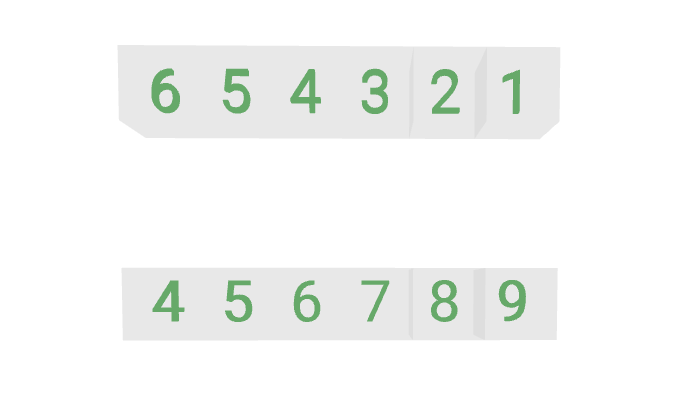
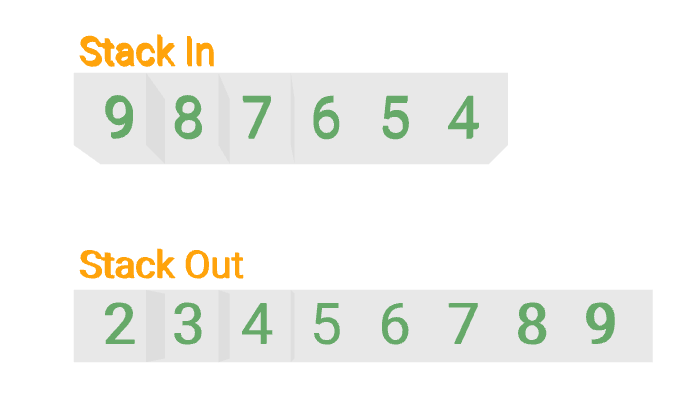
Add stack title

diff --git a/src/games/queue/implement-queue-using-stack/Instructions.tsx b/src/games/queue/implement-queue-using-stack/Instructions.tsx
@@ -1,15 +1,13 @@
 import * as React from 'react';
 import ReactMarkdown from "react-markdown";
 import MuiStack from '@mui/material/Stack';
-import { PopoverOrigin, ToggleButton } from '@mui/material';
+import { PopoverOrigin } from '@mui/material';
 import { styled } from '@mui/material/styles';
 import DescriptionOutlinedIcon from '@mui/icons-material/DescriptionOutlined';
 import CodeIcon from '@mui/icons-material/Code';
 import Instruction from '../../../commons/Instruction';
-import RefreshOutlinedIcon from '@mui/icons-material/RefreshOutlined';
 import CodeBlock, { languages } from '../../dp/_components/CodeBlock';
 import { description, formula } from "./contents";
-import LightTooltip from '../../../commons/LightTooltip';
 
 const anchorOrigin: PopoverOrigin = {
     vertical: 'center',
@@ -29,29 +27,7 @@ const StyledReactMarkdown = styled(ReactMarkdown)(() => ({
     paddingRight: 10,
 }));
 
-const Refresh = () => {
-
-    const handleClick = () => {
-        console.log("refresh");
-    }
-
-    return (
-        <LightTooltip title="Refresh" placement="right">
-            <ToggleButton
-                onChange={handleClick}
-                size="large"
-                sx={{ borderRadius: "50%" }}
-                value="refresh"
-            >
-                <RefreshOutlinedIcon fontSize="medium" />
-            </ToggleButton>
-        </LightTooltip>
-    );
-}
-
 const Instructions = () => {
-    const [highLightLine, setHighLightLine] = React.useState<number[]>([]);
-
     return (
         <MuiStack spacing={2} sx={{ position: 'fixed', top: 112, left: 40 }}>
             <Instruction
@@ -68,13 +44,12 @@ const Instructions = () => {
                     code={formula}
                     language={languages.Typescript}
                     showLineNumbers={true}
-                    linesToHighlight={highLightLine}
+                    linesToHighlight={[]}
                     wrapLines={true}
                 />}
                 anchorOrigin={anchorOrigin}
                 transformOrigin={transformOrigin}
             />
-            <Refresh />
         </MuiStack>
     );
 }

diff --git a/src/games/queue/implement-queue-using-stack/AlgoContext.tsx b/src/games/queue/implement-queue-using-stack/AlgoContext.tsx
@@ -3,6 +3,8 @@ import * as THREE from 'three';
 import Stack from "../../../data-structures/stack";
 import { clearScene, registerOrbitControls } from '../../../commons/three';
 import StackShellBuilder from "./stackShellBuilder";
+import { stackInPosition, stackOutPosition, stackInTitlePosition, stackOutTitlePosition } from "./styles";
+import StackTitle from "./stackTitle";
 
 const AlgoContext = React.createContext<{
     stackIn?: Stack<string>,
@@ -29,8 +31,6 @@ const AlgoContext = React.createContext<{
 });
 
 let animationFrameId = -1;
-const stackAPosition = new THREE.Vector3(-3, 3, -4);
-const stackBPosition = new THREE.Vector3(-3, 0, -4);
 
 export const AlgoContextProvider: React.FC<{
     children: React.ReactNode,
@@ -63,13 +63,16 @@ export const AlgoContextProvider: React.FC<{
         const init = () => {
             clearScene(scene);
 
-            const sIn = new Stack<string>(stackAPosition, duration);
-            const sOut = new Stack<string>(stackBPosition, duration);
+            const sIn = new Stack<string>(stackInPosition, duration);
+            const sOut = new Stack<string>(stackOutPosition, duration);
 
             for (let i = 0; i < minShellSize; i++) {
                 sIn.increaseShells(new StackShellBuilder(scene, true).build())
                 sOut.increaseShells(new StackShellBuilder(scene, true).build())
             }
+
+            new StackTitle("Stack In", stackInTitlePosition, scene);
+            new StackTitle("Stack Out", stackOutTitlePosition, scene);
 
             setStackIn(sIn);
             setStackOut(sOut);

diff --git a/src/games/queue/implement-queue-using-stack/stackTitle.ts b/src/games/queue/implement-queue-using-stack/stackTitle.ts
@@ -1,0 +1,38 @@
+import * as THREE from 'three';
+import { TextGeometry, TextGeometryParameters } from 'three/examples/jsm/geometries/TextGeometry';
+import { font } from '../../../commons/three';
+import { titleStyles } from "./styles";
+
+class StackTitle {
+
+    constructor(title: string, position: THREE.Vector3, scene: THREE.Scene) {
+        const { color, size, height } = titleStyles;
+        const mesh = this.buildMesh(title, color, size, height);
+        this.setPosition(mesh, position);
+        this.show(mesh, scene);
+    }
+
+    private buildMesh(
+        title: string,
+        color: string,
+        size: number,
+        height: number
+    ) {
+        const textMaterial: THREE.Material = new THREE.MeshBasicMaterial({ color });
+        const textGeometryParameters: TextGeometryParameters = { font, size, height };
+        const textGeometry = new TextGeometry(title, textGeometryParameters);
+        return new THREE.Mesh(textGeometry, textMaterial);
+    }
+
+    private setPosition(mesh: THREE.Mesh, { x, y, z }: THREE.Vector3) {
+        mesh.position.setX(x);
+        mesh.position.setY(y);
+        mesh.position.setZ(z);
+    }
+
+    private show(mesh: THREE.Mesh, scene: THREE.Scene) {
+        scene.add(mesh);
+    }
+}
+
+export default StackTitle;

diff --git a/src/games/queue/implement-queue-using-stack/styles.ts b/src/games/queue/implement-queue-using-stack/styles.ts
@@ -9,3 +9,10 @@ export const node = {
 export const shell = {
     material: new THREE.MeshBasicMaterial({ color: "lightgrey", opacity: 0.5, transparent: true }),
 };
+
+export const stackInPosition = new THREE.Vector3(-3, 3, -4);
+export const stackOutPosition = new THREE.Vector3(-3, 0, -4);
+
+export const stackInTitlePosition = new THREE.Vector3(-3.6, 3.8, -4);
+export const stackOutTitlePosition = new THREE.Vector3(-3.6, 0.7, -4);
+export const titleStyles = { color: "orange", size: 0.4, height: 0.1 };

diff --git a/src/games/queue/implement-queue-using-stack/Algo.tsx b/src/games/queue/implement-queue-using-stack/Algo.tsx
@@ -202,7 +202,7 @@ const Empty = () => {
         }
     }
 
-    const { stackIn, stackOut, animate, cancelAnimate, setActionsDisabled, scene, minShellSize } = useAlgoContext();
+    const { stackIn, stackOut, animate, cancelAnimate, setActionsDisabled } = useAlgoContext();
 
     const handleEmpty = async () => {
         if (!stackIn || !stackOut) {
